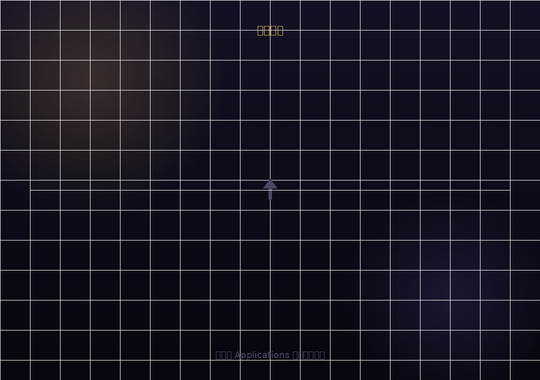
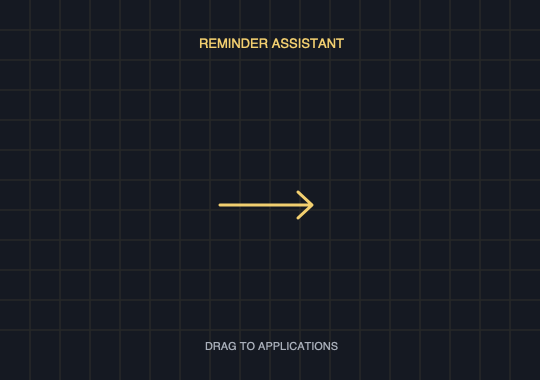
Translate application to English

Changed region(s): [[0.0, 0.0, 1.0, 1.0]]

diff --git a/src/renderer/index.html b/src/renderer/index.html
@@ -1,10 +1,10 @@
 <!DOCTYPE html>
-<html lang="zh-CN">
+<html lang="en">
 <head>
 <meta charset="UTF-8">
 <meta name="viewport" content="width=device-width, initial-scale=1.0">
 <meta http-equiv="Content-Security-Policy" content="default-src 'self'; style-src 'self' 'unsafe-inline'; script-src 'self' 'unsafe-inline'">
-<title>提醒助手</title>
+<title>Reminder Assistant</title>
 <link rel="stylesheet" href="style.css">
 </head>
 <body>
@@ -14,34 +14,34 @@
 <div class="panel">
   <!-- Traffic lights handled natively via hiddenInset, padding for drag region -->
   <div class="titlebar">
-    <span class="app-title">提醒助手</span>
+    <span class="app-title">Reminder Assistant</span>
   </div>
 
   <section class="section">
-    <span class="label">提醒内容</span>
+    <span class="label">Reminder Message</span>
     <textarea class="reminder-input" id="msgInput"
-      placeholder="输入提醒内容…&#10;例如：起身活动一下，喝点水 💧"
+      placeholder="Enter your reminder…&#10;Example: Stand up, stretch, and drink water 💧"
       maxlength="200"></textarea>
     <div class="char-count"><span id="charCount">0</span> / 200</div>
   </section>
 
   <section class="section">
-    <span class="label">提醒间隔</span>
+    <span class="label">Reminder Interval</span>
     <div class="interval-row">
       <div class="interval-display" id="intervalDisplay">25</div>
       <div class="interval-controls">
         <button class="btn-step" id="btnUp">▲</button>
         <button class="btn-step" id="btnDown">▼</button>
       </div>
-      <span class="interval-suffix">分钟 / 次</span>
+      <span class="interval-suffix">minutes / alert</span>
     </div>
 
     <div class="presets">
-      <button class="preset-btn" data-val="5">5 分</button>
-      <button class="preset-btn" data-val="10">10 分</button>
-      <button class="preset-btn" data-val="30">30 分</button>
-      <button class="preset-btn active" data-val="45">45 分</button>
-      <button class="preset-btn" data-val="60">60 分</button>
+      <button class="preset-btn" data-val="5">5 min</button>
+      <button class="preset-btn" data-val="10">10 min</button>
+      <button class="preset-btn" data-val="30">30 min</button>
+      <button class="preset-btn active" data-val="45">45 min</button>
+      <button class="preset-btn" data-val="60">60 min</button>
     </div>
   </section>
 
@@ -49,13 +49,13 @@
 
   <div class="status-bar">
     <div class="status-dot" id="statusDot"></div>
-    <span class="status-text" id="statusText">尚未启动</span>
+    <span class="status-text" id="statusText">Not started</span>
     <span class="countdown" id="countdown"></span>
   </div>
 
   <div class="btn-row">
-    <button class="btn-secondary" id="btnTest" title="立即测试全屏提醒">测试</button>
-    <button class="btn-main" id="btnMain">开始提醒</button>
+    <button class="btn-secondary" id="btnTest" title="Preview full-screen reminder">Test</button>
+    <button class="btn-main" id="btnMain">Start Reminder</button>
   </div>
 </div>
 

diff --git a/src/main.js b/src/main.js
@@ -133,7 +133,7 @@ function createTray() {
   // Create a simple 16x16 template image for tray
   const icon = nativeImage.createFromDataURL(getTrayIconDataURL())
   tray = new Tray(icon)
-  tray.setToolTip('提醒助手')
+  tray.setToolTip('Reminder Assistant')
   updateTrayMenu()
 
   tray.on('click', () => {
@@ -146,7 +146,7 @@ function createTray() {
 function updateTrayMenu() {
   const contextMenu = Menu.buildFromTemplate([
     {
-      label: isRunning ? '⏸ 停止提醒' : '▶ 开始提醒',
+      label: isRunning ? '⏸ Stop Reminders' : '▶ Start Reminders',
       click: () => {
         if (isRunning) {
           mainWindow?.webContents.send('tray-stop')
@@ -158,12 +158,12 @@ function updateTrayMenu() {
     },
     { type: 'separator' },
     {
-      label: '显示主窗口',
+      label: 'Show Window',
       click: () => { mainWindow?.show() }
     },
     { type: 'separator' },
     {
-      label: '退出',
+      label: 'Quit',
       click: () => { app.exit(0) }
     }
   ])
@@ -173,7 +173,7 @@ function updateTrayMenu() {
 // ─── Power / Screen Monitor ───────────────────────────────────────
 
 function setupPowerMonitor() {
-  // Screen locked (息屏 / 锁屏)
+  // Screen locked
   powerMonitor.on('lock-screen', () => {
     if (!isRunning) return
     screenLocked = true
@@ -182,7 +182,7 @@ function setupPowerMonitor() {
     console.log('[ReminderApp] Screen locked — timers paused')
   })
 
-  // Screen unlocked (解锁 / 亮屏)
+  // Screen unlocked
   powerMonitor.on('unlock-screen', () => {
     if (!isRunning) return
     screenLocked = false
@@ -193,7 +193,7 @@ function setupPowerMonitor() {
     console.log('[ReminderApp] Screen unlocked — timers resumed')
   })
 
-  // System sleep (合盖 / 休眠)
+  // System sleep
   powerMonitor.on('suspend', () => {
     if (!isRunning) return
     screenLocked = true
@@ -294,7 +294,7 @@ ipcMain.on('dismiss-overlay', () => {
 })
 
 ipcMain.on('test-reminder', (_, { message }) => {
-  triggerReminder(message || '这是一条测试提醒 🔔')
+  triggerReminder(message || 'This is a test reminder 🔔')
 })
 
 ipcMain.on('save-settings', (_, settings) => {

diff --git a/src/renderer/app.js b/src/renderer/app.js
@@ -91,26 +91,26 @@ function stopReminder() {
 
 // ── Test Button ───────────────────────────────────────────────────
 btnTest.addEventListener('click', () => {
-  const message = msgInput.value.trim() || '这是一条测试提醒 🔔'
+  const message = msgInput.value.trim() || 'This is a test reminder 🔔'
   window.electronAPI.testReminder({ message })
 })
 
 // ── IPC: Listeners from Main ──────────────────────────────────────
 window.electronAPI.onReminderStarted(() => {
   running = true
-  btnMain.textContent = '停止提醒'
+  btnMain.textContent = 'Stop Reminder'
   btnMain.classList.add('stop')
   statusDot.classList.add('active')
-  statusText.textContent = `每 ${interval} 分钟提醒一次`
+  statusText.textContent = `Every ${interval} minutes`
   setControlsDisabled(true)
 })
 
 window.electronAPI.onReminderStopped(() => {
   running = false
-  btnMain.textContent = '开始提醒'
+  btnMain.textContent = 'Start Reminder'
   btnMain.classList.remove('stop')
   statusDot.classList.remove('active')
-  statusText.textContent = '已停止'
+  statusText.textContent = 'Stopped'
   countdown.textContent = ''
   setControlsDisabled(false)
 })
@@ -128,14 +128,14 @@ window.electronAPI.onTrayStop(() => stopReminder())
 window.electronAPI.onScreenLocked(() => {
   statusDot.classList.remove('active')
   statusDot.style.background = 'var(--muted)'
-  statusText.textContent = '息屏中，计时已暂停'
+  statusText.textContent = 'Screen locked, timer paused'
   countdown.textContent = ''
 })
 
 window.electronAPI.onScreenUnlocked(() => {
   statusDot.classList.add('active')
   statusDot.style.background = ''
-  statusText.textContent = `每 ${interval} 分钟提醒一次（已重置倒计时）`
+  statusText.textContent = `Every ${interval} minutes (countdown reset)`
 })
 
 // ── Helpers ───────────────────────────────────────────────────────

diff --git a/src/renderer/overlay.html b/src/renderer/overlay.html
@@ -1,10 +1,10 @@
 <!DOCTYPE html>
-<html lang="zh-CN">
+<html lang="en">
 <head>
 <meta charset="UTF-8">
 <meta name="viewport" content="width=device-width, initial-scale=1.0">
 <meta http-equiv="Content-Security-Policy" content="default-src 'self'; style-src 'self' 'unsafe-inline'; script-src 'self' 'unsafe-inline'">
-<title>提醒</title>
+<title>Reminder</title>
 <style>
 * { margin: 0; padding: 0; box-sizing: border-box; }
 
@@ -163,11 +163,11 @@ body {
     <div class="bell">🔔</div>
   </div>
 
-  <div class="message" id="message">提醒内容</div>
+  <div class="message" id="message">Reminder</div>
   <div class="time-label" id="timeLabel">--:--</div>
 
-  <button class="dismiss-hint" onclick="dismiss()">关闭提醒</button>
-  <div class="esc-hint">按 ESC 也可关闭</div>
+  <button class="dismiss-hint" onclick="dismiss()">Dismiss</button>
+  <div class="esc-hint">Press ESC to dismiss</div>
 </div>
 
 <script>
@@ -194,7 +194,7 @@ body {
 
     const now = new Date()
     document.getElementById('timeLabel').textContent =
-      now.toLocaleTimeString('zh-CN', { hour: '2-digit', minute: '2-digit', hour12: false })
+      now.toLocaleTimeString('en-GB', { hour: '2-digit', minute: '2-digit', hour12: false })
   })
 
   // Add fade-out keyframe

diff --git a/README.md b/README.md
@@ -29,12 +29,12 @@ The packaged app and DMG will be created in `dist/`. Open the DMG and drag Remin
 ## Usage Example
 
 1. Enter `Drink water and stretch` as the reminder message.
-2. Choose `45 分` as the interval.
-3. Click **开始提醒**.
+2. Choose `45 min` as the interval.
+3. Click **Start Reminder**.
 4. When the reminder appears, dismiss it with a click, `Esc`, `Space`, or `Enter`.
 5. Use the menu bar icon to show the window, stop reminders, or quit the app.
 
-Use **测试** to preview a reminder immediately. Reminders cover every connected display, and the countdown restarts after your Mac wakes or unlocks.
+Use **Test** to preview a reminder immediately. Reminders cover every connected display, and the countdown restarts after your Mac wakes or unlocks.
 
 ## License
 
